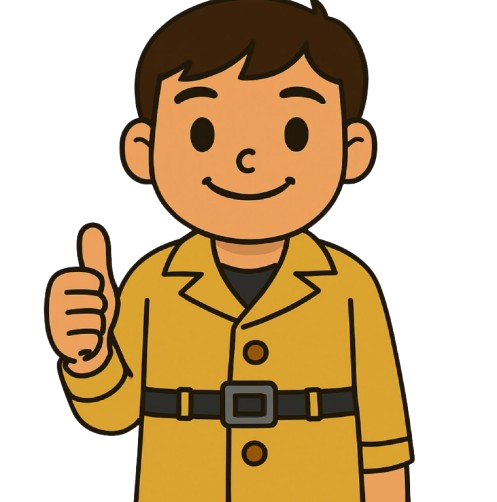
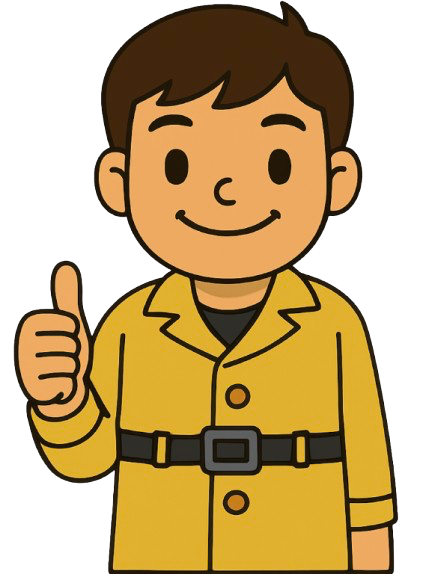
Update certificate text and adjust image placements in offboarding.py

diff --git a/zones/offboarding.py b/zones/offboarding.py
@@ -37,7 +37,7 @@ def generate_certificate(name: str) -> bytes:
     pdf.ln(10)
     pdf.multi_cell(0, 10,
         "für die erfolgreiche Teilnahme am interaktiven Lernprogramm\n"
-        "\"Fake News & Deepfakes erkennen und bewerten\"", 
+        "\"InfoGuard - Schützer der Informationen\"", 
         align='C')
 
     cert_id = f"ZERT-{random.randint(100000,999999)}"
@@ -45,14 +45,14 @@ def generate_certificate(name: str) -> bytes:
     pdf.set_font("Helvetica", 'I', 10)
     #pdf.cell(0, 10, f"Zertifikatsnummer: {cert_id}", ln=True, align='C')
 
-    pdf.image("static/InfoGuard_UP.png", x=85, y=115, w=120)
+    pdf.image("static/InfoGuard_UP.png", x=120, y=121, w=60)
 
     pdf.ln(30)
     pdf.set_font("Helvetica", 'I', 12)
     pdf.cell(0, 10, "Unterschrift: ____________________", ln=True, align='R')
 
     pdf.image("static/stempel.png", x=20, y=155, w=40)
-    pdf.image("static/unterschrift.png", x=200, y=170, w=50)
+    pdf.image("static/unterschrift.png", x=235, y=128, w=50)
 
     return pdf.output(dest='S').encode('latin1')
 
